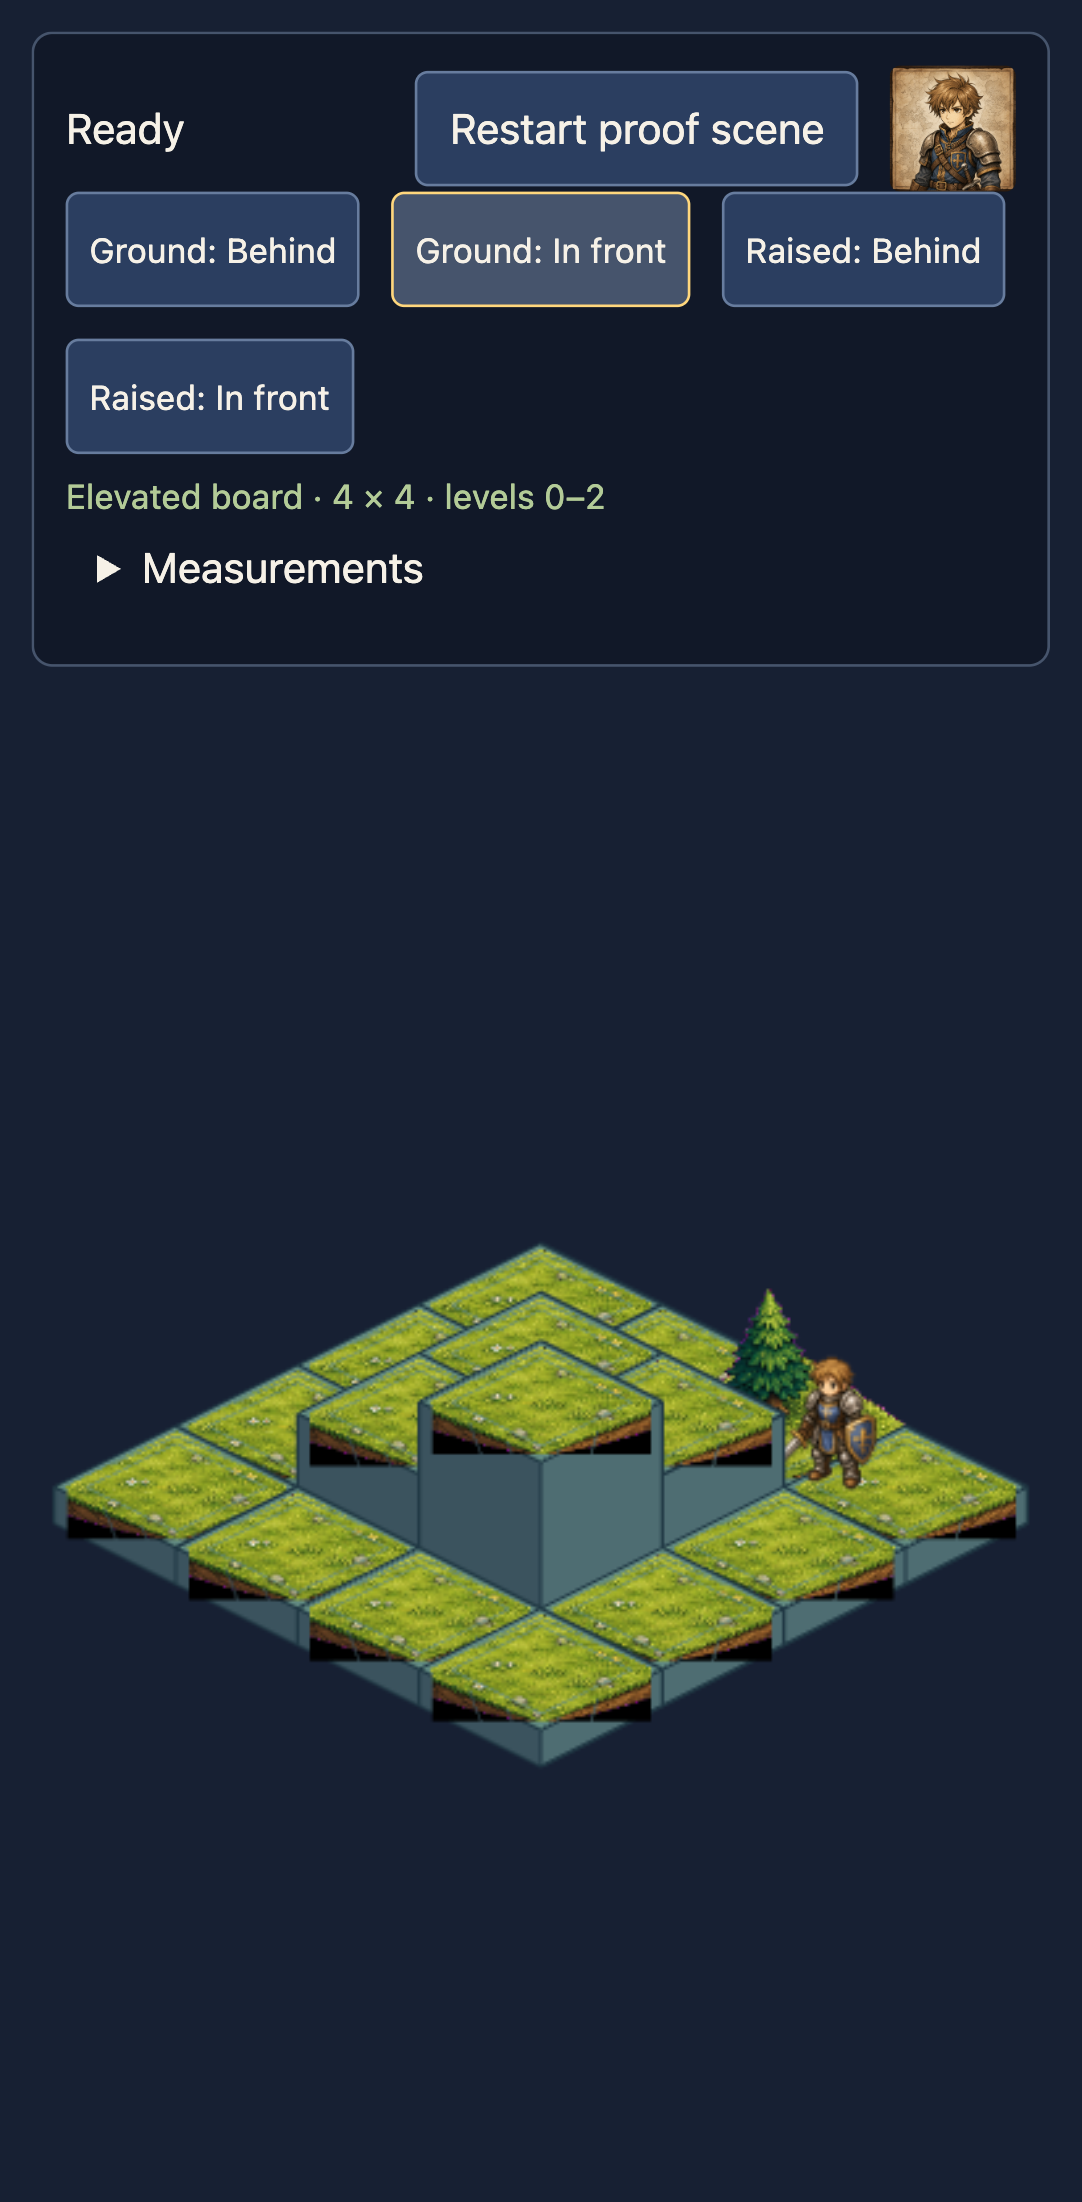
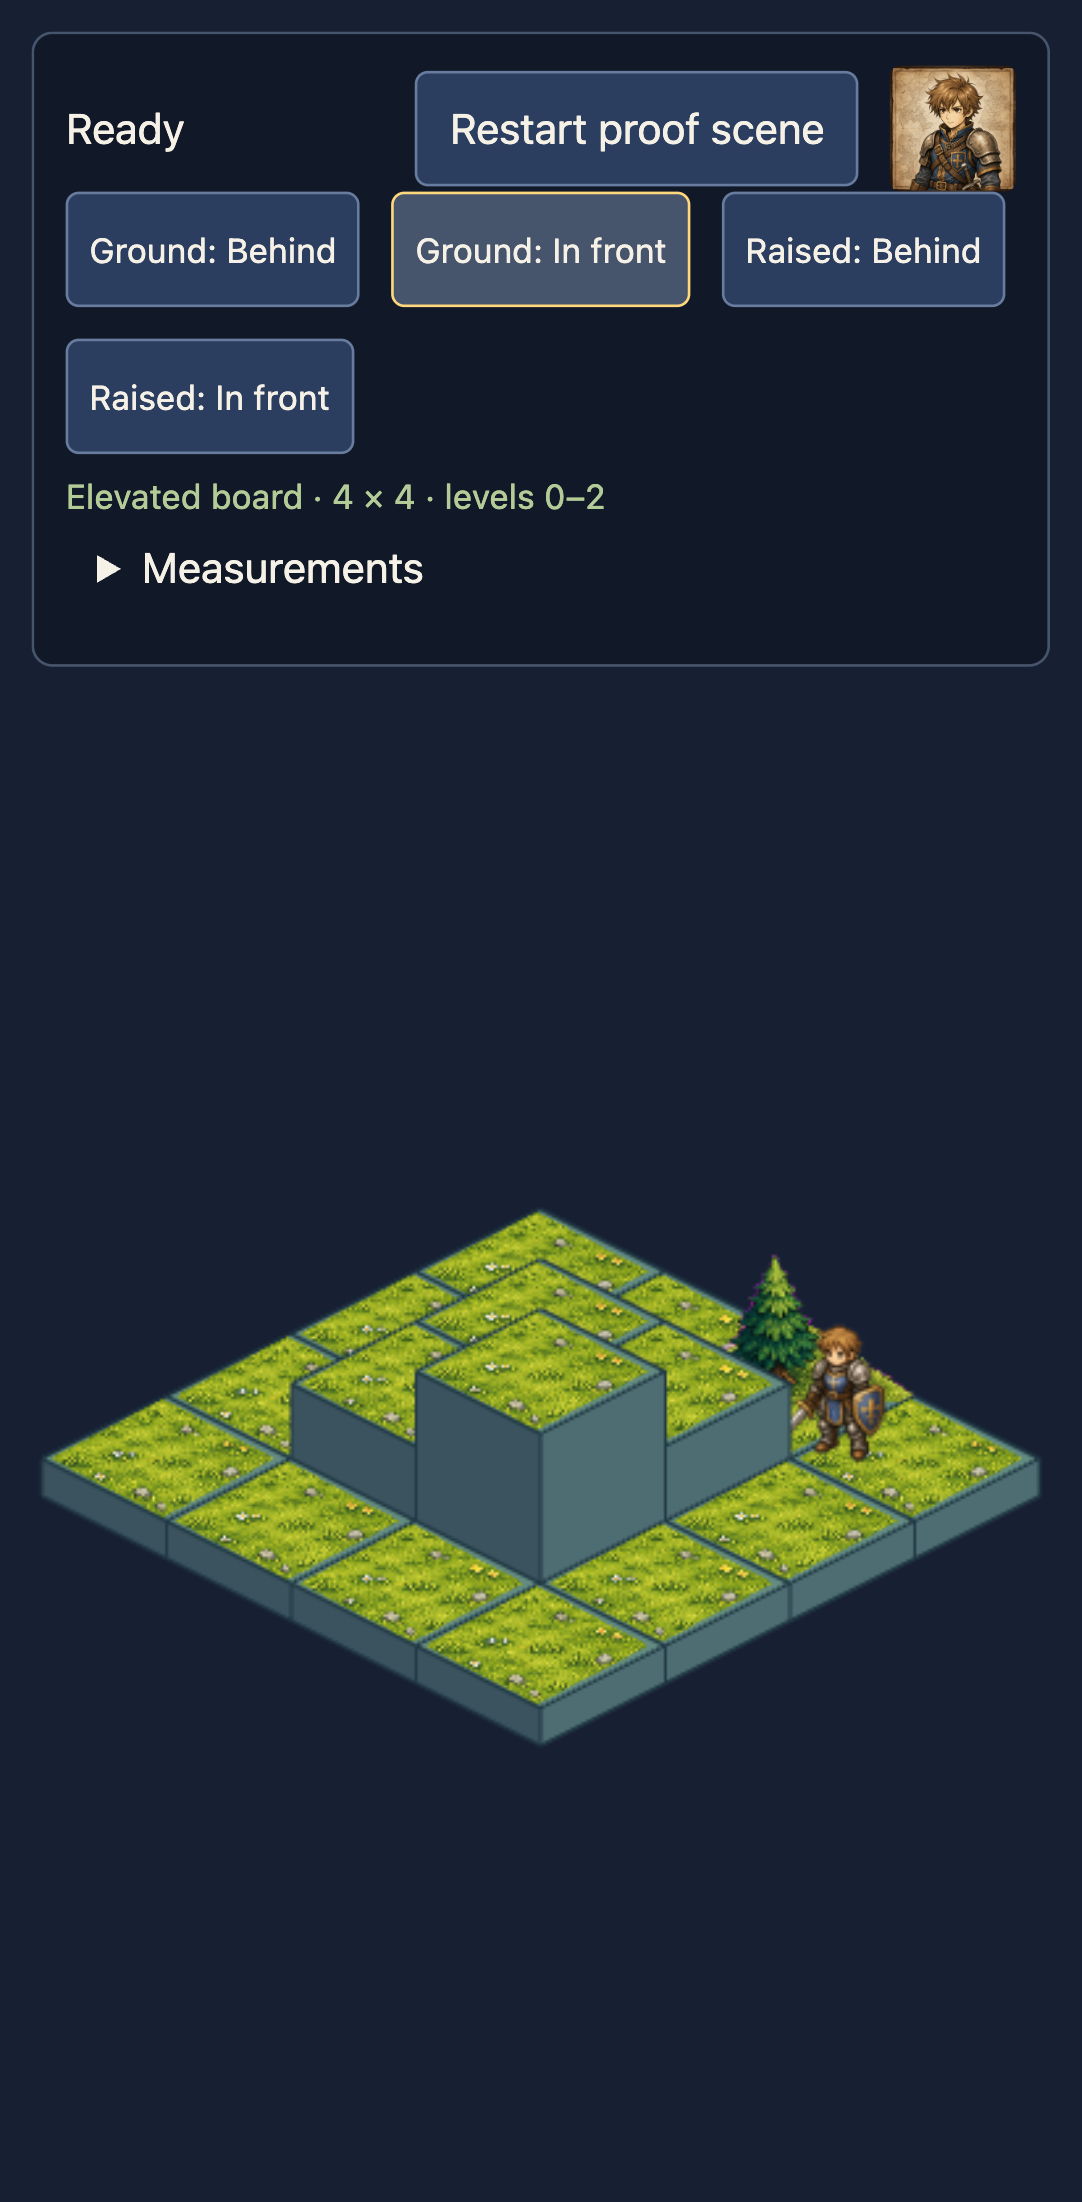
fix: use a transparent grass surface aligned to board tiles

Changed region(s): [[0.0305, 0.525, 0.976, 0.8029]]

diff --git a/src/phaser/BoardRenderer.ts b/src/phaser/BoardRenderer.ts
@@ -2,16 +2,19 @@ import Phaser from 'phaser';
 import { BOARD_FIXTURE } from '../diagnostics/boardFixture';
 import { PROOF_ASSETS, PROOF_ART, PROOF_FIXTURES, proofDepth, type ProofFixture } from '../diagnostics/proofAssets';
 import { setProofDiagnostics, type BoardDiagnostics } from '../diagnostics/browser';
-import { boardBounds, fitBoard, orderTiles, projectTile, tileFaces, type Point, type Bounds } from '../geometry/iso';
+import { boardBounds, fitBoard, orderTiles, projectTile, tileFaces, type Point, type Bounds, TILE_WIDTH, TILE_HEIGHT } from '../geometry/iso';
 
 export class BoardRenderer {
   private readonly root: Phaser.GameObjects.Container;
   private readonly hero: Phaser.GameObjects.Image;
   private readonly prop: Phaser.GameObjects.Image;
   private readonly bounds: Bounds;
+  private readonly surfaceMasks: Phaser.GameObjects.Graphics[] = [];
 
   constructor(scene: Phaser.Scene) {
     this.root = scene.add.container();
+    const frame = PROOF_ART.grass.frame;
+    if (!scene.textures.get('grass').has('surface')) scene.textures.get('grass').add('surface', 0, frame.x, frame.y, frame.width, frame.height);
     const drawFace = (graphics: Phaser.GameObjects.Graphics, points: readonly Point[], color: number): void => {
       const vertices = points.map(point => new Phaser.Math.Vector2(point.x, point.y));
       graphics.fillStyle(color, 1).fillPoints(vertices, true);
@@ -24,9 +27,13 @@ export class BoardRenderer {
       drawFace(graphics, faces.right, 0x4e6d72);
       drawFace(graphics, faces.top, 0x638b82);
       const point = projectTile(tile);
-      const grass = scene.add.image(point.x, point.y, 'grass')
-        .setOrigin(0.5, PROOF_ART.grass.originY).setDisplaySize(PROOF_ART.grass.width, PROOF_ART.grass.height)
-        .setCrop(PROOF_ART.grass.crop.x, PROOF_ART.grass.crop.y, PROOF_ART.grass.crop.width, PROOF_ART.grass.crop.height).setDepth(proofDepth(tile, 1));
+      const grass = scene.add.image(point.x, point.y, 'grass', 'surface')
+        .setOrigin(0.5).setDisplaySize(TILE_WIDTH, TILE_HEIGHT).setDepth(proofDepth(tile, 1));
+      // The edit has a slightly irregular alpha edge; geometry guarantees a tile-sized diamond.
+      const mask = scene.add.graphics().setVisible(false);
+      mask.fillStyle(0xffffff).fillPoints(faces.top.map(vertex => new Phaser.Math.Vector2(vertex.x, vertex.y)), true);
+      grass.setMask(mask.createGeometryMask());
+      this.surfaceMasks.push(mask);
       this.root.add([graphics, grass]);
     }
     this.prop = scene.add.image(0, 0, 'tree').setOrigin(0.5, PROOF_ART.tree.originY).setDisplaySize(PROOF_ART.tree.width, PROOF_ART.tree.height);
@@ -55,12 +62,13 @@ export class BoardRenderer {
     this.prop.setPosition(prop.x, prop.y).setDepth(proofDepth(value.prop, 2));
     this.root.sort('depth');
     setProofDiagnostics({ fixture, relation: value.relation, propElevation: value.prop.elevation,
-      heroDepth: this.hero.depth, propDepth: this.prop.depth, assetCount: PROOF_ASSETS.length, objectCount: this.root.length + 1 });
+      heroDepth: this.hero.depth, propDepth: this.prop.depth, assetCount: PROOF_ASSETS.length, objectCount: this.root.length + 1 + this.surfaceMasks.length });
   }
 
   fit(width: number, height: number, panelBottom: number): BoardDiagnostics {
     const layout = fitBoard(this.bounds, { width, height }, panelBottom);
     this.root.setPosition(layout.x, layout.y).setScale(layout.scale);
+    for (const mask of this.surfaceMasks) mask.setPosition(layout.x, layout.y).setScale(layout.scale);
     return {
       tileCount: BOARD_FIXTURE.length,
       elevations: [...new Set(BOARD_FIXTURE.map(tile => tile.elevation))].sort(),

diff --git a/src/diagnostics/proofAssets.ts b/src/diagnostics/proofAssets.ts
@@ -1,13 +1,13 @@
 import { BOARD_SIZE } from './boardFixture';
 // Selected diagnostic assets only; provenance and anchors: docs/qa/issue-16-assets.md.
 export const PROOF_ASSETS = [
-  { key: 'grass', url: '/proof/grass.png' },
+  { key: 'grass', url: '/proof/grass-surface.png' },
   { key: 'tree', url: '/proof/tree.png' },
   { key: 'fighter', url: '/proof/fighter.png' },
   { key: 'fighter-portrait', url: '/proof/fighter-portrait.png' },
 ] as const;
 export const PROOF_ART = {
-  grass: { width: 88, height: 121, originY: 226 / 352, crop: { x: 0, y: 170, width: 256, height: 106 } },
+  grass: { frame: { x: 71, y: 20, width: 1687, height: 849 } },
   tree: { width: 80, height: 110, originY: 170 / 352 },
   fighter: { width: 40, height: 50, originY: 76 / 80 },
 } as const;

diff --git a/tests/assets.spec.ts b/tests/assets.spec.ts
@@ -23,7 +23,7 @@ test('canonical assets, near/far fixtures and restart remain stable', async ({ p
     await expect(page.getByRole('status')).toHaveText('Ready');
     await expect(page.locator('#game')).toHaveAttribute('data-run', String(run));
     expect(await page.evaluate(() => window.fitDiagnostics().proof?.fixture)).toBe('ground-behind');
-    expect(await page.evaluate(() => window.fitDiagnostics().proof?.objectCount)).toBe(35);
+    expect(await page.evaluate(() => window.fitDiagnostics().proof?.objectCount)).toBe(51);
   }
   expect(errors).toEqual([]);
 });

diff --git a/docs/qa/issue-16-assets.md b/docs/qa/issue-16-assets.md
@@ -3,11 +3,11 @@
 ## Source and selected files
 
 Read-only source: local `tactics-guru` repository, revision `9303d9916d99e7bf4ecda36b55fbb038983af834`.
-The source checkout was clean; each copied PNG was checked against the Git blob at that revision. Only these four runtime images were copied, unchanged. No Godot resources or gameplay catalogs were imported.
+The source checkout was clean; each copied PNG was checked against the Git blob at that revision. These four canonical images were copied unchanged. The runtime now substitutes the user-requested transparent grass derivative described below for the original grass slab. No Godot resources or gameplay catalogs were imported.
 
 | Legacy source | Proof file under `public/proof/` | Source pixels | Display size before board fit | Anchor in source pixels |
 | --- | --- | --- | --- | --- |
-| `art/tiles/grass_detailed_N.png` | `grass.png` | 256 × 352 | 88 × 121 | (128, 226); render crop (0,170,256,106), top only |
+| `art/tiles/grass_detailed_N.png` | `grass.png` | 256 × 352 | Archived original; not loaded | Original preserved |
 | `art/tiles/tree_single_detailed_N.png` | `tree.png` | 256 × 352 | 80 × 110 | (128, 170), base center |
 | `art/units/fighter.png` | `fighter.png` | 64 × 80 | 40 × 50 | (32, 76), feet |
 | `art/portraits/fighter_portrait.png` | `fighter-portrait.png` | 1254 × 1254 | 48 × 48 CSS | DOM image, full frame |
@@ -19,7 +19,7 @@ The source checkout was clean; each copied PNG was checked against the Git blob 
[2 lines of base64/hex data omitted]
 
-Total selected PNG bytes: **3,388,616**. The unchanged portrait accounts for 3,285,110 bytes. This increment records that cost; #20 measures deployed cold/warm performance and sets budgets.
+Original canonical PNG bytes: **3,388,616**. Current loaded PNG bytes, including the grass derivative: **4,436,206**. The unchanged portrait accounts for 3,285,110 bytes. This increment records that cost; #20 measures deployed cold/warm performance and sets budgets.
 
 ## License and provenance status
 
@@ -29,13 +29,13 @@ Fighter sprite first appears in source commit `d71a71d0376f4625d1e06d602f011e5b4
 
 ## Rendering and lifecycle
 
-The 4×4 diagnostic board retains generated side faces and uses the canonical grass top art. Render-only cropping hides the legacy base slab, avoiding duplicate elevation geometry; source PNG bytes stay unchanged. Grass uses a top-face anchor, tree a base anchor, and Fighter a foot anchor.
+The 4×4 diagnostic board retains generated side faces and uses a derived transparent grass surface. The renderer selects its alpha bounding frame and scales it to the shared 80×40 top-surface dimensions with a centered anchor. Per-tile diamond geometry masks prevent irregular alpha edges from spilling onto adjacent columns. Tree uses a base anchor and Fighter a foot anchor.
 
 Complete tile columns, surface art and occupants share stable grid-depth slots with the existing sum/y/x ordering. Elevation changes projected position, not depth priority. The fixed fixture buttons show one Fighter and one tree at a time. Ground fixtures use a tree at (2,0), elevation 0; raised fixtures use (1,1), elevation 1. The raised front Fighter stands on the existing elevation-2 tile at (2,2). Ground fixtures have ±28 logical-pixel foot offsets inside their tiles to make canopy overlap visible. They are diagnostic positions, not tactical moves.
 
-Layout fits the union of all fixtures and full image rectangles below the panel, including transparent padding. The portrait displays separately in the panel. The four unique selected assets load through Phaser; the DOM portrait uses the same cached URL because Phaser revokes its temporary loader blob URL. Controls wait for both a rendered frame and the decoded DOM portrait. A failed asset produces a visible error with reload instructions and disabled scene controls.
+Layout fits the union of all fixtures and full image rectangles below the panel, including transparent padding. The portrait displays separately in the panel. The four selected runtime images load through Phaser; the DOM portrait uses the same cached URL because Phaser revokes its temporary loader blob URL. Controls wait for both a rendered frame and the decoded DOM portrait. A failed asset produces a visible error with reload instructions and disabled scene controls.
 
-Phaser owns the container and its 34 children (16 side/top graphics, 16 grass images, one tree and one hero); scene shutdown destroys them. Explicit shutdown removes fixture, portrait, resize, post-render and visibility listeners and disconnects the panel observer. Four cached textures are game-owned and reused across scene restarts. Restart returns to ground-behind and clears scene diagnostics.
+Phaser owns the container and its 34 children (16 side/top graphics, 16 grass images, one tree and one hero), plus 16 scene-owned mask graphics: 51 objects in total; scene shutdown destroys them. Explicit shutdown removes fixture, portrait, resize, post-render and visibility listeners and disconnects the panel observer. Four cached textures are game-owned and reused across scene restarts. Restart returns to ground-behind and clears scene diagnostics.
 
 ## Verification
 
@@ -53,3 +53,14 @@ Representative screenshots are linked below. Visual review checks grass alignmen
 | ground-front | [image](issue-16/desktop-ground-front.png) | [image](issue-16/mobile-portrait-ground-front.png) | [image](issue-16/mobile-landscape-ground-front.png) |
 | raised-behind | [image](issue-16/desktop-raised-behind.png) | [image](issue-16/mobile-portrait-raised-behind.png) | [image](issue-16/mobile-landscape-raised-behind.png) |
 | raised-front | [image](issue-16/desktop-raised-front.png) | [image](issue-16/mobile-portrait-raised-front.png) | [image](issue-16/mobile-landscape-raised-front.png) |
+
+## Transparent grass derivative (user-requested follow-up)
+
+`public/proof/grass-surface.png` is a built-in ImageGen edit of the original `art/tiles/grass_detailed_N.png`. The original remains byte-identical in `public/proof/grass.png` and in the read-only legacy checkout. The edit removes dirt walls, orange underside and opaque black bands. It has genuine RGBA transparency; inspection found no opaque pure-black pixels. Because ImageGen changes small texture details, this is an edited derivative rather than a pixel-exact crop of the canonical image.
+
+- PNG dimensions: 1774×887; alpha bounds: (71,20) to (1758,869).
+- Renderer frame: x=71, y=20, width=1687, height=849; display: 80×40; origin: center.
[1 lines of base64/hex data omitted]
+- Bytes: 1,093,498. The larger edited asset is recorded for subsequent loading measurements.
+- Method and final prompt: [grass-surface-prompt.md](issue-16/grass-surface-prompt.md).
+- Visual comparison confirms that the old black bands and detached grass lips are removed. All four fixtures are recaptured below using the new surface.

diff --git a/docs/qa/issue-16/grass-surface-prompt.md b/docs/qa/issue-16/grass-surface-prompt.md
@@ -1,0 +1,7 @@
+# Transparent grass surface edit
+
+Tool: built-in `image_gen`, transparent_background=true. Edit target: the canonical `art/tiles/grass_detailed_N.png` at the source revision recorded in the parent QA note. The output is an edited derivative, not an exact pixel extraction.
+
+Final prompt:
+
+> Use case: background-extraction. Edit target: the supplied canonical grass tile PNG. Extract ONLY its existing grassy TOP SURFACE into a clean transparent isometric diamond tile. Preserve the existing grass, tiny flowers, stones, palette and texture as faithfully as possible; do not redesign or add objects. Remove all dirt side walls, orange underside, black bands, shadows outside the diamond and original excess padding. Straight precise diamond silhouette with 2:1 width-to-height ratio, symmetric vertices at top, right, bottom and left; surface fills the entire diamond. Center the diamond on a genuinely transparent RGBA background with tight bounds. No tile thickness, no bevel, no border, no background, no text. This is an extraction/normalization of existing art for a game, not new terrain art.
